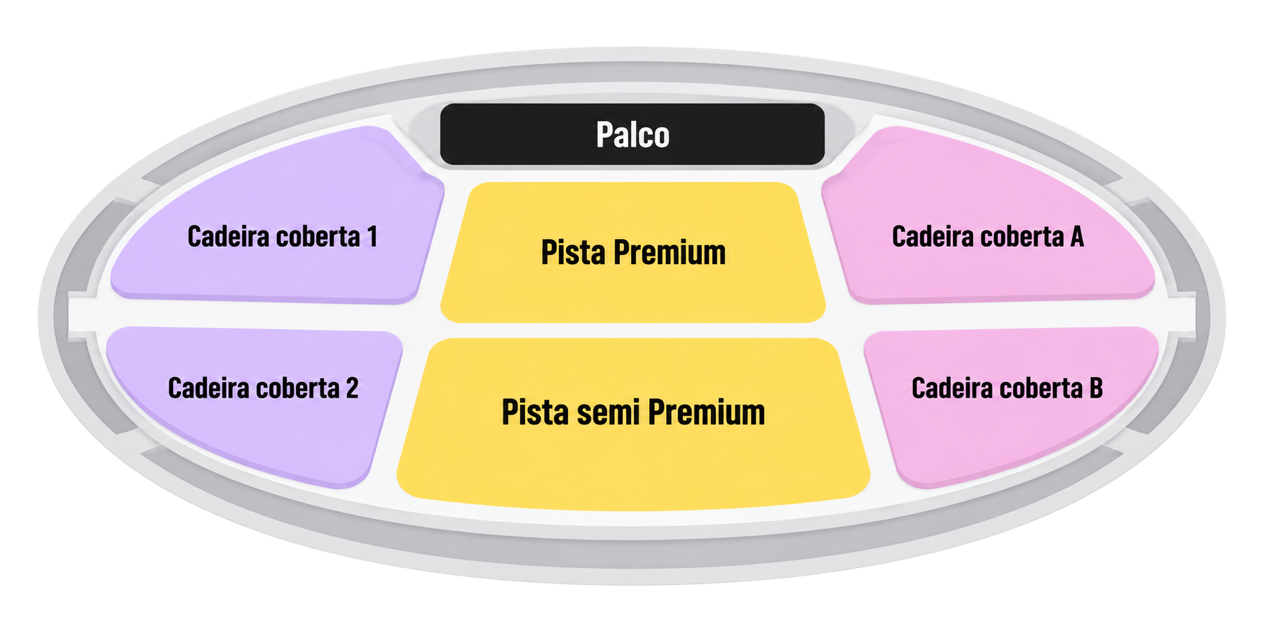
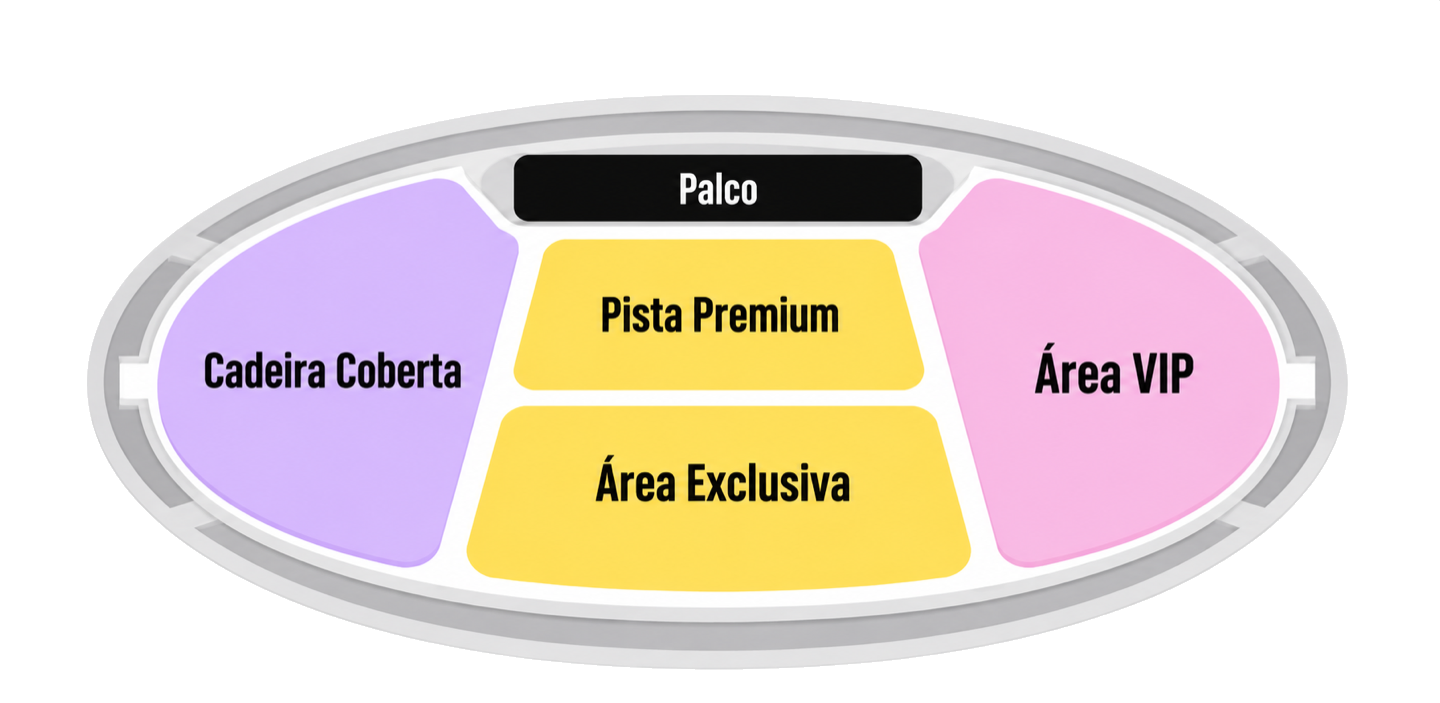
Mapa estático: nova imagem com fundo transparente e texto alternativo dos 4 setores

diff --git a/src/event/parts.jsx b/src/event/parts.jsx
@@ -167,13 +167,12 @@ export const InfoBanner = ({ children, title }) => (
 /* ------------------------------------------------------------------ */
 /* Mapa referencial do evento (Figma "Mapa referencial do evento")     */
 /* ------------------------------------------------------------------ */
+// Mesmos setores da imagem public/figma/mapa-estadio-4-setores.png (usados no texto alternativo)
 const MAP_BLOCKS = [
-  { label: 'Cadeira coberta 1', sector: 'cadeira-coberta', cls: 'bg-[#c4b5fd]' },
+  { label: 'Cadeira Coberta', sector: 'cadeira-coberta', cls: 'bg-[#c4b5fd]' },
   { label: 'Pista Premium', sector: 'pista-premium', cls: 'bg-[#fcd34d]', star: true },
-  { label: 'Cadeira coberta A', sector: 'cadeira-coberta', cls: 'bg-[#f0abfc]' },
-  { label: 'Cadeira coberta 2', sector: 'cadeira-coberta', cls: 'bg-[#c4b5fd]' },
-  { label: 'Pista semi Premium', sector: 'area-exclusiva', cls: 'bg-[#fcd34d]', star: true },
-  { label: 'Cadeira coberta B', sector: 'cadeira-coberta', cls: 'bg-[#f0abfc]' },
+  { label: 'Área Exclusiva', sector: 'area-exclusiva', cls: 'bg-[#fcd34d]', star: true },
+  { label: 'Área VIP', sector: 'area-vip', cls: 'bg-[#f0abfc]' },
 ]
 
 /**
@@ -188,7 +187,7 @@ export function VenueMap() {
       <CardTitle>Visão geral do local</CardTitle>
       <div className="mt-6 flex flex-col gap-2 rounded-3xl border border-line bg-body p-4 md:p-6">
         <img
-          src={asset('mapa-estadio.png')}
+          src={asset('mapa-estadio-4-setores.png')}
           alt={`Mapa do local: palco à frente; setores ${MAP_BLOCKS.map((b) => b.label).join(', ')}`}
           loading="lazy"
           draggable={false}
